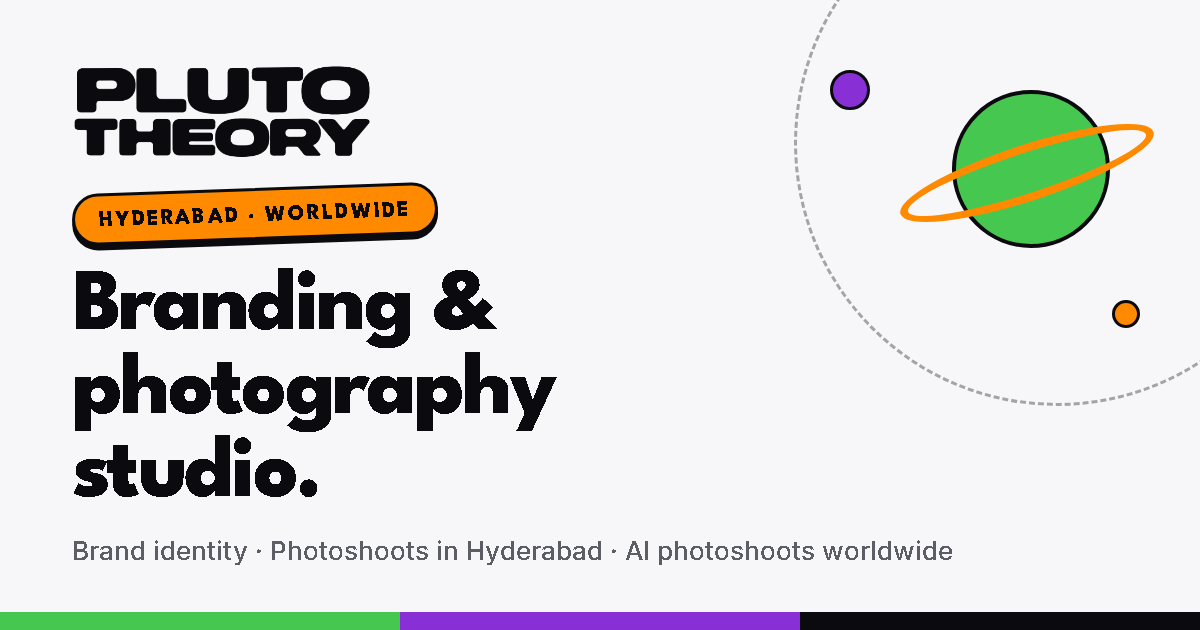
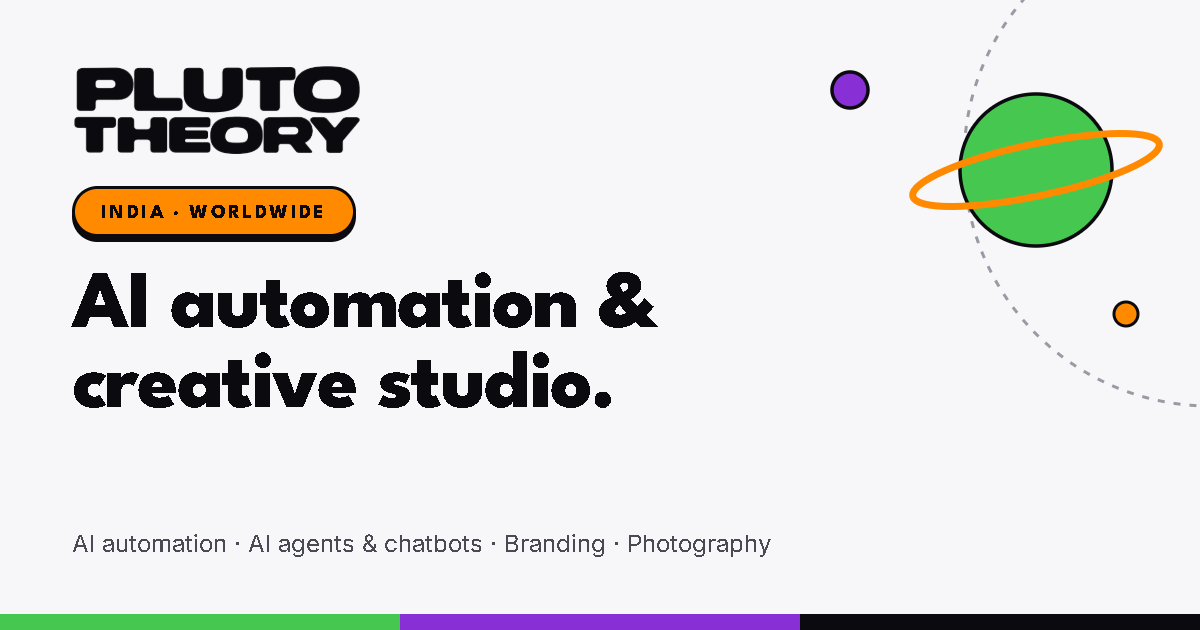
New link-preview image: AI automation & creative studio
tools/make-og-image.mjs draws assets/og-image.png from the site's fonts and
logo; alt text on every page updated to match.

diff --git a/blog/ai-photoshoot-vs-real-photoshoot.html b/blog/ai-photoshoot-vs-real-photoshoot.html
@@ -16,7 +16,7 @@
   <meta property="og:image" content="https://www.plutotheory.com/assets/og-image.png">
   <meta property="og:image:width" content="1200">
   <meta property="og:image:height" content="630">
-  <meta property="og:image:alt" content="Pluto Theory: branding and photography studio in Hyderabad">
+  <meta property="og:image:alt" content="Pluto Theory: AI automation and creative studio, India and worldwide">
   <meta name="twitter:card" content="summary_large_image">
   <meta name="twitter:title" content="AI Photoshoot vs Real Photoshoot: Which Is Right? | Pluto Theory">
   <meta name="twitter:description" content="An honest comparison of AI photoshoots and real product photoshoots: cost, speed, product accuracy, models, marketplace rules, and when a mix of both works best.">

diff --git a/ai-photoshoot.html b/ai-photoshoot.html
@@ -16,7 +16,7 @@
   <meta property="og:image" content="https://www.plutotheory.com/assets/og-image.png">
   <meta property="og:image:width" content="1200">
   <meta property="og:image:height" content="630">
-  <meta property="og:image:alt" content="Pluto Theory: branding and photography studio in Hyderabad">
+  <meta property="og:image:alt" content="Pluto Theory: AI automation and creative studio, India and worldwide">
   <meta name="twitter:card" content="summary_large_image">
   <meta name="twitter:title" content="AI Photoshoots for Products &amp; Brands Worldwide | Pluto Theory">
   <meta name="twitter:description" content="AI photoshoots by Pluto Theory: on-brand product and campaign images, art-directed and retouched by people, delivered remotely to brands anywhere in the world.">

diff --git a/blog/brand-identity-checklist-startups-india.html b/blog/brand-identity-checklist-startups-india.html
@@ -16,7 +16,7 @@
   <meta property="og:image" content="https://www.plutotheory.com/assets/og-image.png">
   <meta property="og:image:width" content="1200">
   <meta property="og:image:height" content="630">
-  <meta property="og:image:alt" content="Pluto Theory: branding and photography studio in Hyderabad">
+  <meta property="og:image:alt" content="Pluto Theory: AI automation and creative studio, India and worldwide">
   <meta name="twitter:card" content="summary_large_image">
   <meta name="twitter:title" content="Brand Identity Checklist for Startups in India | Pluto Theory">
   <meta name="twitter:description" content="What a startup brand identity should include, what can wait, how to check a name before you fall in love with it, and the mistakes that make brands look generic.">

diff --git a/ai-agents.html b/ai-agents.html
@@ -16,7 +16,7 @@
   <meta property="og:image" content="https://www.plutotheory.com/assets/og-image.png">
   <meta property="og:image:width" content="1200">
   <meta property="og:image:height" content="630">
-  <meta property="og:image:alt" content="Pluto Theory: branding and photography studio in Hyderabad">
+  <meta property="og:image:alt" content="Pluto Theory: AI automation and creative studio, India and worldwide">
   <meta name="twitter:card" content="summary_large_image">
   <meta name="twitter:title" content="AI Agents &amp; Chatbots for Business | Pluto Theory">
   <meta name="twitter:description" content="Pluto Theory builds AI agents and chatbots for websites, WhatsApp and internal teams. They answer from your own information, qualify leads and hand over to a person.">

diff --git a/blog/branding-agency-hyderabad.html b/blog/branding-agency-hyderabad.html
@@ -16,7 +16,7 @@
   <meta property="og:image" content="https://www.plutotheory.com/assets/og-image.png">
   <meta property="og:image:width" content="1200">
   <meta property="og:image:height" content="630">
-  <meta property="og:image:alt" content="Pluto Theory: branding and photography studio in Hyderabad">
+  <meta property="og:image:alt" content="Pluto Theory: AI automation and creative studio, India and worldwide">
   <meta name="twitter:card" content="summary_large_image">
   <meta name="twitter:title" content="Branding Agency in Hyderabad: How to Choose One | Pluto Theory">
   <meta name="twitter:description" content="How to choose a branding agency in Hyderabad: what branding costs in 2026, questions to ask before you sign, red flags, and how to compare quotes fairly.">

diff --git a/blog/product-photography-cost-hyderabad.html b/blog/product-photography-cost-hyderabad.html
@@ -16,7 +16,7 @@
   <meta property="og:image" content="https://www.plutotheory.com/assets/og-image.png">
   <meta property="og:image:width" content="1200">
   <meta property="og:image:height" content="630">
-  <meta property="og:image:alt" content="Pluto Theory: branding and photography studio in Hyderabad">
+  <meta property="og:image:alt" content="Pluto Theory: AI automation and creative studio, India and worldwide">
   <meta name="twitter:card" content="summary_large_image">
   <meta name="twitter:title" content="Product Photography Cost in Hyderabad (2026 Guide) | Pluto Theory">
   <meta name="twitter:description" content="What product photography costs in Hyderabad in 2026: per-image and day rates, what changes the price, hidden costs, and how to get an accurate quote.">

diff --git a/photography.html b/photography.html
@@ -16,7 +16,7 @@
   <meta property="og:image" content="https://www.plutotheory.com/assets/og-image.png">
   <meta property="og:image:width" content="1200">
   <meta property="og:image:height" content="630">
-  <meta property="og:image:alt" content="Pluto Theory: branding and photography studio in Hyderabad">
+  <meta property="og:image:alt" content="Pluto Theory: AI automation and creative studio, India and worldwide">
   <meta name="twitter:card" content="summary_large_image">
   <meta name="twitter:title" content="Product &amp; Brand Photography in Hyderabad | Pluto Theory">
   <meta name="twitter:description" content="Product, brand, portrait, lifestyle and event photoshoots in Hyderabad by Pluto Theory, planned, shot and edited into images ready for web, ads and social.">

diff --git a/what-we-are.html b/what-we-are.html
@@ -16,7 +16,7 @@
   <meta property="og:image" content="https://www.plutotheory.com/assets/og-image.png">
   <meta property="og:image:width" content="1200">
   <meta property="og:image:height" content="630">
-  <meta property="og:image:alt" content="Pluto Theory: branding and photography studio in Hyderabad">
+  <meta property="og:image:alt" content="Pluto Theory: AI automation and creative studio, India and worldwide">
   <meta name="twitter:card" content="summary_large_image">
   <meta name="twitter:title" content="What We Do: AI Automation, Branding &amp; PR | Pluto Theory">
   <meta name="twitter:description" content="Everything Pluto Theory does under one roof: AI automation and AI agents, branding, photography and production, PR, community nights and product building.">

diff --git a/contact.html b/contact.html
@@ -16,7 +16,7 @@
   <meta property="og:image" content="https://www.plutotheory.com/assets/og-image.png">
   <meta property="og:image:width" content="1200">
   <meta property="og:image:height" content="630">
-  <meta property="og:image:alt" content="Pluto Theory: branding and photography studio in Hyderabad">
+  <meta property="og:image:alt" content="Pluto Theory: AI automation and creative studio, India and worldwide">
   <meta name="twitter:card" content="summary_large_image">
   <meta name="twitter:title" content="Contact Pluto Theory | Branding &amp; Photography, Hyderabad">
   <meta name="twitter:description" content="Start an AI automation, AI agent, branding or photography project with Pluto Theory. Tell us what you are building and we will reply with next steps.">

diff --git a/ai-automation.html b/ai-automation.html
@@ -16,7 +16,7 @@
   <meta property="og:image" content="https://www.plutotheory.com/assets/og-image.png">
   <meta property="og:image:width" content="1200">
   <meta property="og:image:height" content="630">
-  <meta property="og:image:alt" content="Pluto Theory: branding and photography studio in Hyderabad">
+  <meta property="og:image:alt" content="Pluto Theory: AI automation and creative studio, India and worldwide">
   <meta name="twitter:card" content="summary_large_image">
   <meta name="twitter:title" content="AI Automation Agency in India | Pluto Theory">
   <meta name="twitter:description" content="Pluto Theory builds AI automations for businesses in India and worldwide: lead follow-ups, CRM updates, WhatsApp and email replies, reports and document work.">

diff --git a/branding.html b/branding.html
@@ -16,7 +16,7 @@
   <meta property="og:image" content="https://www.plutotheory.com/assets/og-image.png">
   <meta property="og:image:width" content="1200">
   <meta property="og:image:height" content="630">
-  <meta property="og:image:alt" content="Pluto Theory: branding and photography studio in Hyderabad">
+  <meta property="og:image:alt" content="Pluto Theory: AI automation and creative studio, India and worldwide">
   <meta name="twitter:card" content="summary_large_image">
   <meta name="twitter:title" content="Branding Agency in Hyderabad | Brand Identity | Pluto Theory">
   <meta name="twitter:description" content="Brand identity, logo, naming, voice and guidelines from Pluto Theory, a branding agency in Hyderabad that can photograph your brand too.">

diff --git a/gallery.html b/gallery.html
@@ -18,7 +18,7 @@
   <meta property="og:image" content="https://www.plutotheory.com/assets/og-image.png">
   <meta property="og:image:width" content="1200">
   <meta property="og:image:height" content="630">
-  <meta property="og:image:alt" content="Pluto Theory: branding and photography studio in Hyderabad">
+  <meta property="og:image:alt" content="Pluto Theory: AI automation and creative studio, India and worldwide">
   <meta name="twitter:card" content="summary_large_image">
   <meta name="twitter:title" content="Gallery: Branding, Photography &amp; AI Photoshoots | Pluto Theory">
   <meta name="twitter:description" content="Work from Pluto Theory: brand identities, product and brand photoshoots in Hyderabad, and AI photoshoots for brands worldwide.">
